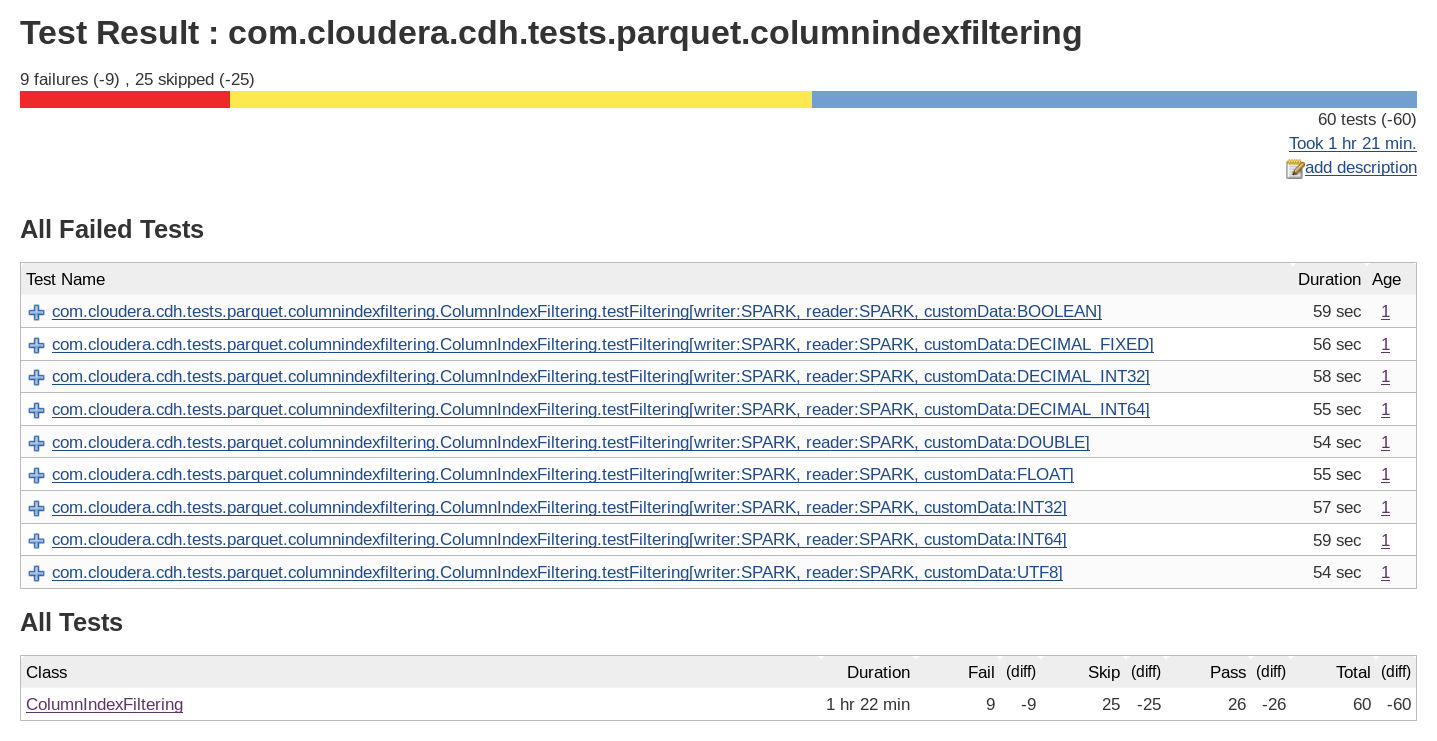
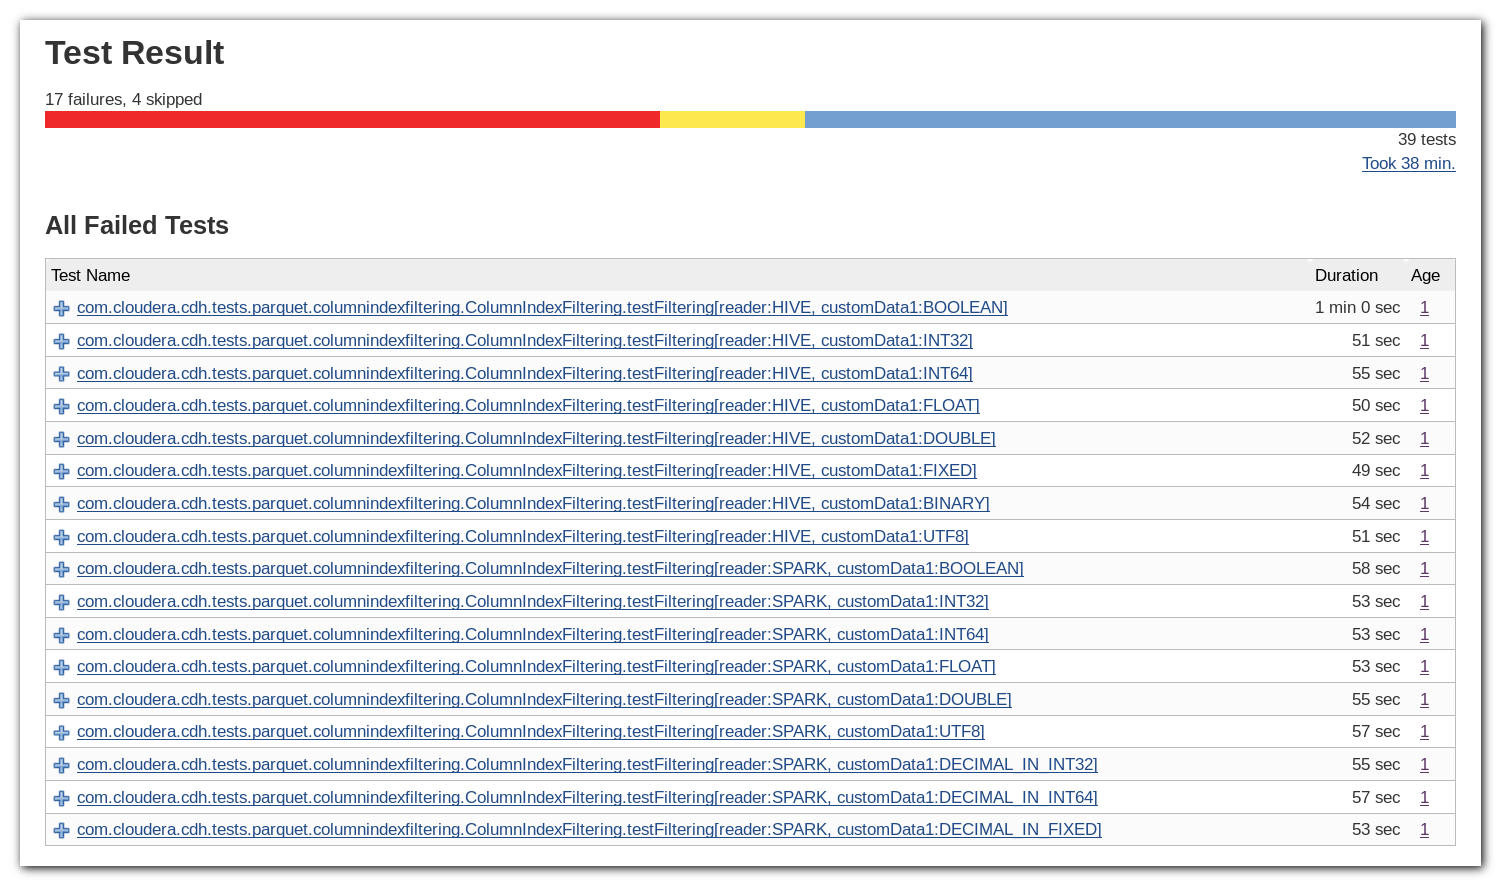
Updated results as we managed to get Hive to properly push down predicates.

Changed region(s): [[0.0, 0.0, 1.0, 0.9933], [0.5205, 0.1242, 0.5818, 0.1552]]

diff --git a/ColumnIndexFiltering.java b/ColumnIndexFiltering.java
@@ -13,6 +13,7 @@ import java.util.Collections;
 import java.util.HashMap;
 import java.util.List;
 import java.util.Map;
+import java.util.StringJoiner;
 
 import org.apache.hadoop.conf.Configuration;
 import org.apache.hadoop.fs.FileSystem;
@@ -313,15 +314,17 @@ public class ColumnIndexFiltering {
   }
 
   private String rowsToString(List<List<Object>> rows) {
-    String retval = "";
+    StringJoiner table = new StringJoiner("\n");
     for (int i = 0, n = rows.size(); i < n; ++i) {
       List<Object> row = rows.get(i);
+      StringJoiner line = new StringJoiner("\t");
       for (int j = 0, m = row.size(); j < m; ++j) {
-        retval += row.get(j);
+        Object value = row.get(j);
+        line.add(value == null ? "NULL" : value.toString());
       }
-      retval += "\n";
+      table.add(line.toString());
     }
-    return retval;
+    return table.toString();
   }
 
   private void validateData(List<List<Object>> referenceRows, List<List<Object>> actualRows) {

diff --git a/ColumnHelper.java b/ColumnHelper.java
@@ -1,4 +1,3 @@
-// (c) Copyright 2019 Cloudera, Inc.
 package com.cloudera.cdh.tests.parquet.columnindexfiltering;
 
 import static com.cloudera.cdh.test.common.Component.HIVE;
@@ -87,6 +86,7 @@ enum ColumnHelper {
       return new TestValues<Long>(Long.MIN_VALUE + 1, -42L, 42L, Long.MAX_VALUE - 1);
     }
   },
+  // INT96 is the de-facto standard timestamp for Impala, Hive and Spark however, not specified in Parquet
   INT96 {
     @Override
     public Type getSchema() {

diff --git a/README.md b/README.md
@@ -16,7 +16,7 @@ The test have been executed using Hive, Spark and Impala readers. All tests are
 passing (skipped tests are the result of non-supported data types in certain
 components):
 
-![Passing Spark tests](column-index-testing-passing-spark-tests.png)
+![Passing tests](column-index-testing-passing-tests.png)
 
 The exact meaning of these results depends on the component used for reading:
 
@@ -26,23 +26,8 @@ The exact meaning of these results depends on the component used for reading:
 
 - Java readers, on the other hand, automatically take advantage of column
   indexes without any code modification, provided that they correctly push down
-  predicates to parquet-mr.
-
-    - In spite of this, we could not get Hive to use column index filtering. We
-      tracked down the source of the issue to a problem in Hive. Hive reads from
-      parquet-mr in two steps. First it checks for potentially matching row
-      groups, correctly setting the predicates in the configuration object
-      passed to parquet-mr. Later, however, it uses a different configuration
-      object for reading the records themselves, and this latter one does not
-      contain the predicate. We are still investigating this issue and will
-      prepare a fix once we pinpoint the exact source problem. Until then, Hive
-      correctly reads and filters data written by parquet-mr 1.11.0, but does
-      not use column index filtering for doing so.
-
-    - Spark correctly pushes down predicates to parquet-mr, thus automatically
-      takes advantage of column index filtering as well. The results of Spark
-      tests therefore confirm the correctness of the column index writing and
-      filtering.
+  predicates to parquet-mr. The results of Spark and Hive tests therefore
+  confirm the correctness of the column index writing and filtering.
 
 # Fault injection
 
@@ -58,15 +43,8 @@ tested independently:
   DESCENDING for ascending values and ASCENDING for descending or non-sorted
   values.
 
-As expected, both of these changes resulted in test failures in Spark:
+As expected, both of these changes resulted in test failures when using Spark or
+Hive (this test run has less test cases in total because it was restricted to
+the equality relation):
 
 ![Corrupted indexes cause test failures, as expected](column-index-testing-failing-tests-with-corrupted-indexes.png)
-
-Tests are failing for all types except INT96, DECIMAL_BINARY and unannotated
-FIXED. INT96 is passing despite the corrupt indexes because it is not supported
-by column index filtering. The other two types are passing despite the corrupt
-indexes because Spark does not push down predicates for those types. (It is
-worth noting that Spark does push down predicates for other variations of these
-types, and those cause failures as expected: the DECIMAL type using any other
-representation than BINARY and the FIXED type annotated with the UTF8 logical
-type all trigger column index filtering.)
